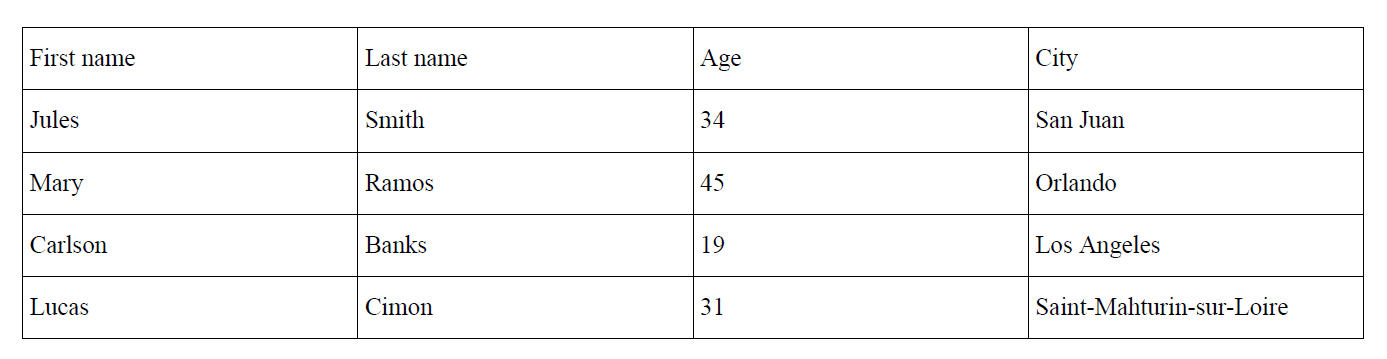
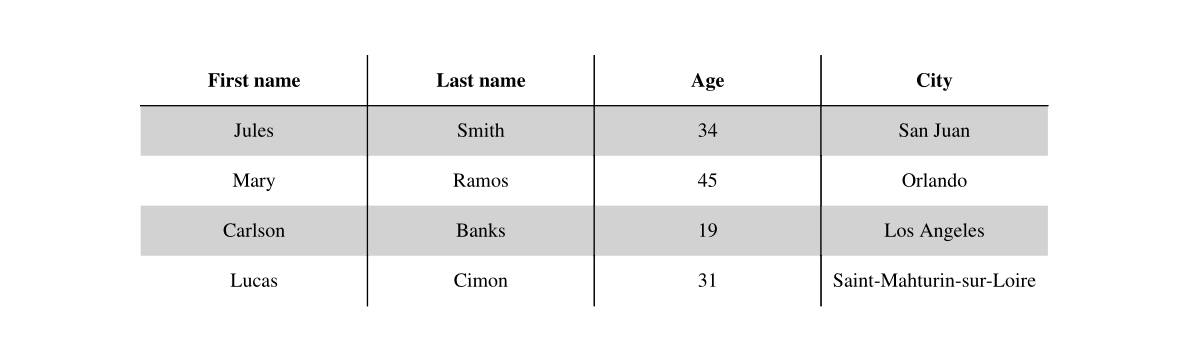
Improving docstrings

diff --git a/fpdf/fpdf.py b/fpdf/fpdf.py
@@ -946,7 +946,7 @@ class FPDF(GraphicsStateMixin):
         """
         Footer to be implemented in your own inherited class.
 
-        This is automatically called by `FPDF.add_page()` and `FPDF.close()`
+        This is automatically called by `FPDF.add_page()` and `FPDF.output()`
         and should not be called directly by the user application.
         The default implementation performs nothing: you have to override this method
         in a subclass to implement your own rendering logic.
@@ -968,16 +968,7 @@ class FPDF(GraphicsStateMixin):
             g (int): green component (between 0 and 255)
             b (int): blue component (between 0 and 255)
         """
-        if isinstance(r, (drawing.DeviceGray, drawing.DeviceRGB)):
-            # Note: in this case, r is also a Sequence
-            self.draw_color = r
-        else:
-            if isinstance(r, Sequence):
-                r, g, b = r
-            if (r, g, b) == (0, 0, 0) or g == -1:
-                self.draw_color = drawing.DeviceGray(r / 255)
-            else:
-                self.draw_color = drawing.DeviceRGB(r / 255, g / 255, b / 255)
+        self.draw_color = _convert_to_drawing_color(r, g, b)
         if self.page > 0:
             self._out(self.draw_color.serialize().upper())
 
@@ -993,16 +984,7 @@ class FPDF(GraphicsStateMixin):
             g (int): green component (between 0 and 255)
             b (int): blue component (between 0 and 255)
         """
-        if isinstance(r, (drawing.DeviceGray, drawing.DeviceRGB)):
-            # Note: in this case, r is also a Sequence
-            self.fill_color = r
-        else:
-            if isinstance(r, Sequence):
-                r, g, b = r
-            if (r, g, b) == (0, 0, 0) or g == -1:
-                self.fill_color = drawing.DeviceGray(r / 255)
-            else:
-                self.fill_color = drawing.DeviceRGB(r / 255, g / 255, b / 255)
+        self.fill_color = _convert_to_drawing_color(r, g, b)
         if self.page > 0:
             self._out(self.fill_color.serialize().lower())
 
@@ -1018,16 +1000,7 @@ class FPDF(GraphicsStateMixin):
             g (int): green component (between 0 and 255)
             b (int): blue component (between 0 and 255)
         """
-        if isinstance(r, (drawing.DeviceGray, drawing.DeviceRGB)):
-            # Note: in this case, r is also a Sequence
-            self.text_color = r
-        else:
-            if isinstance(r, Sequence):
-                r, g, b = r
-            if (r, g, b) == (0, 0, 0) or g == -1:
-                self.text_color = drawing.DeviceGray(r / 255)
-            else:
-                self.text_color = drawing.DeviceRGB(r / 255, g / 255, b / 255)
+        self.text_color = _convert_to_drawing_color(r, g, b)
 
     def get_string_width(self, s, normalized=False, markdown=False):
         """
@@ -4713,6 +4686,7 @@ class FPDF(GraphicsStateMixin):
     def table(self):
         """
         Inserts a table, that can be built using the `fpdf.table.Table` object yield.
+        Detailed usage documentation: https://pyfpdf.github.io/fpdf2/Tables.html
         """
         table = Table(self)
         yield table
@@ -4766,6 +4740,17 @@ class FPDF(GraphicsStateMixin):
                 name.write(self.buffer)
             return None
         return self.buffer
+
+
+def _convert_to_drawing_color(r, g, b):
+    if isinstance(r, (drawing.DeviceGray, drawing.DeviceRGB)):
+        # Note: in this case, r is also a Sequence
+        return r
+    if isinstance(r, Sequence):
+        r, g, b = r
+    if (r, g, b) == (0, 0, 0) or g == -1:
+        return drawing.DeviceGray(r / 255)
+    return drawing.DeviceRGB(r / 255, g / 255, b / 255)
 
 
 def _is_svg(bytes):

diff --git a/fpdf/table.py b/fpdf/table.py
@@ -10,7 +10,10 @@ DEFAULT_HEADINGS_STYLE = FontStyle(emphasis="BOLD")
 
 
 class Table:
-    "Object that `FPDF.table()` yields, used to build a table in the document"
+    """
+    Object that `fpdf.FPDF.table()` yields, used to build a table in the document.
+    Detailed usage documentation: https://pyfpdf.github.io/fpdf2/Tables.html
+    """
 
     def __init__(self, fpdf):
         self._fpdf = fpdf
@@ -47,7 +50,7 @@ class Table:
         yield row
 
     def render(self):
-        "This is an internal method called by `FPDF.table()` once the table is finished"
+        "This is an internal method called by `fpdf.FPDF.table()` once the table is finished"
         if self.width > self._fpdf.epw:
             raise ValueError(
                 f"Invalid value provided .width={self.width}: effective page width is {self._fpdf.epw}"
@@ -87,11 +90,13 @@ class Table:
         """
         Defines which cell borders should be drawn.
         Returns a string containing some or all of the letters L/R/T/B,
-        to be passed to `FPDF.multi_cell()`.
+        to be passed to `fpdf.FPDF.multi_cell()`.
         Can be overriden to customize this logic
         """
         if self.borders_layout == TableBordersLayout.ALL.value:
             return 1
+        if self.borders_layout == TableBordersLayout.NONE.value:
+            return 0
         columns_count = max(len(row.cells) for row in self._rows)
         rows_count = len(self._rows)
         border = list("LRTB")
@@ -190,7 +195,7 @@ class Table:
         lines = self._fpdf.multi_cell(
             w=col_width,
             h=row_height,
-            txt=cell.text or "",
+            txt=cell.text,
             max_line_height=cell_line_height,
             border=self.get_cell_border(i, j),
             align=text_align,
@@ -236,15 +241,17 @@ class Table:
 
 
 class Row:
-    "Object that FPDF.row() yields, used to build a row in a table"
+    "Object that `Table.row()` yields, used to build a row in a table"
 
     def __init__(self):
         self.cells = []
 
-    def cell(self, text=None, img=None, img_fill_width=False):
+    def cell(self, text="", img=None, img_fill_width=False):
         """
+        Adds a cell to the row.
+
         Args:
-            text (str): optional. String content, can contain several lines.
+            text (str): string content, can contain several lines.
                 In that case, the row height will grow proportionally.
             img: optional. Either a string representing a file path to an image,
                 an URL to an image, an io.BytesIO, or a instance of `PIL.Image.Image`.

diff --git a/fpdf/enums.py b/fpdf/enums.py
@@ -246,6 +246,9 @@ class TableBordersLayout(CoerciveEnum):
     ALL = intern("ALL")
     "Draw all table cells borders"
 
+    NONE = intern("NONE")
+    "Draw zero cells border"
+
     INTERNAL = intern("INTERNAL")
     "Draw only internal horizontal & vertical borders"
 
@@ -794,7 +797,3 @@ class EncryptionMethod(Enum):
     NO_ENCRYPTION = 0
     RC4 = 1
     AES_128 = 2
-
-
-# This enum is only used internally:
-__pdoc__ = {"DocumentState": False}

diff --git a/fpdf/image_parsing.py b/fpdf/image_parsing.py
@@ -59,7 +59,7 @@ TIFFBitRevTable = [
 def load_image(filename):
     """
     This method is used to load external resources, such as images.
-    It is automatically called when resource added to document by `FPDF.image()`.
+    It is automatically called when resource added to document by `fpdf.FPDF.image()`.
     It always return a BytesIO buffer.
     """
     # if a bytesio instance is passed in, use it as is.

diff --git a/docs/Maths.md b/docs/Maths.md
@@ -128,25 +128,21 @@ columns = [list(df)]  # Get list of dataframe columns
 rows = df.values.tolist()  # Get list of dataframe rows
 data = columns + rows  # Combine columns and rows in one list
 
-# Start pdf creating
 pdf = FPDF()
 pdf.add_page()
 pdf.set_font("Times", size=10)
-line_height = pdf.font_size * 2.5
-col_width = pdf.epw / 4  # distribute content evenly
-
-for row in data:
-    for datum in row:
-        pdf.multi_cell(
-            col_width,
-            line_height,
-            datum,
-            border=1,
-            new_y="TOP",
-            max_line_height=pdf.font_size,
-        )
-    pdf.ln(line_height)
-pdf.output("table_with_cells.pdf")
+with pdf.table() as table:
+    table.borders_layout = "MINIMAL"
+    table.cell_fill_color = 200  # grey
+    table.cell_fill_logic = lambda i, j: i % 2
+    table.line_height = pdf.font_size * 2.5
+    table.text_align = "CENTER"
+    table.width= 160
+    for data_row in data:
+        with table.row() as row:
+            for datum in data_row:
+                row.cell(datum)
+pdf.output("table_from_pandas.pdf")
 ```
 
 Result:

diff --git a/docs/Tables.md b/docs/Tables.md
@@ -190,6 +190,10 @@ Result:
 
 ![](table_with_images_and_img_fill_width.jpg)
 
+## Table from pandas DataFrame
+
+_cf._ https://pyfpdf.github.io/fpdf2/Maths.html#using-pandas
+
 ## Using write_html
 
 Tables can also be defined in HTML using [`FPDF.write_html`](HTML.md).
